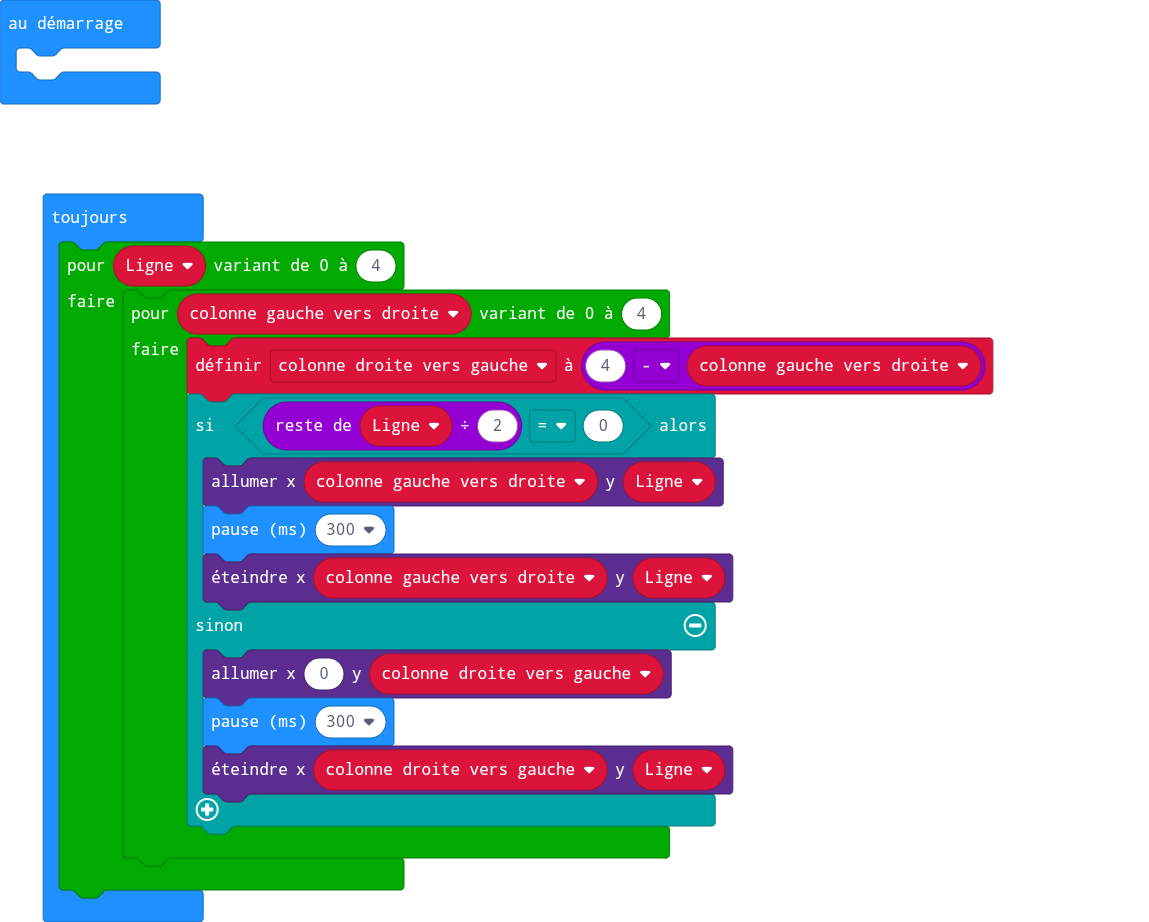
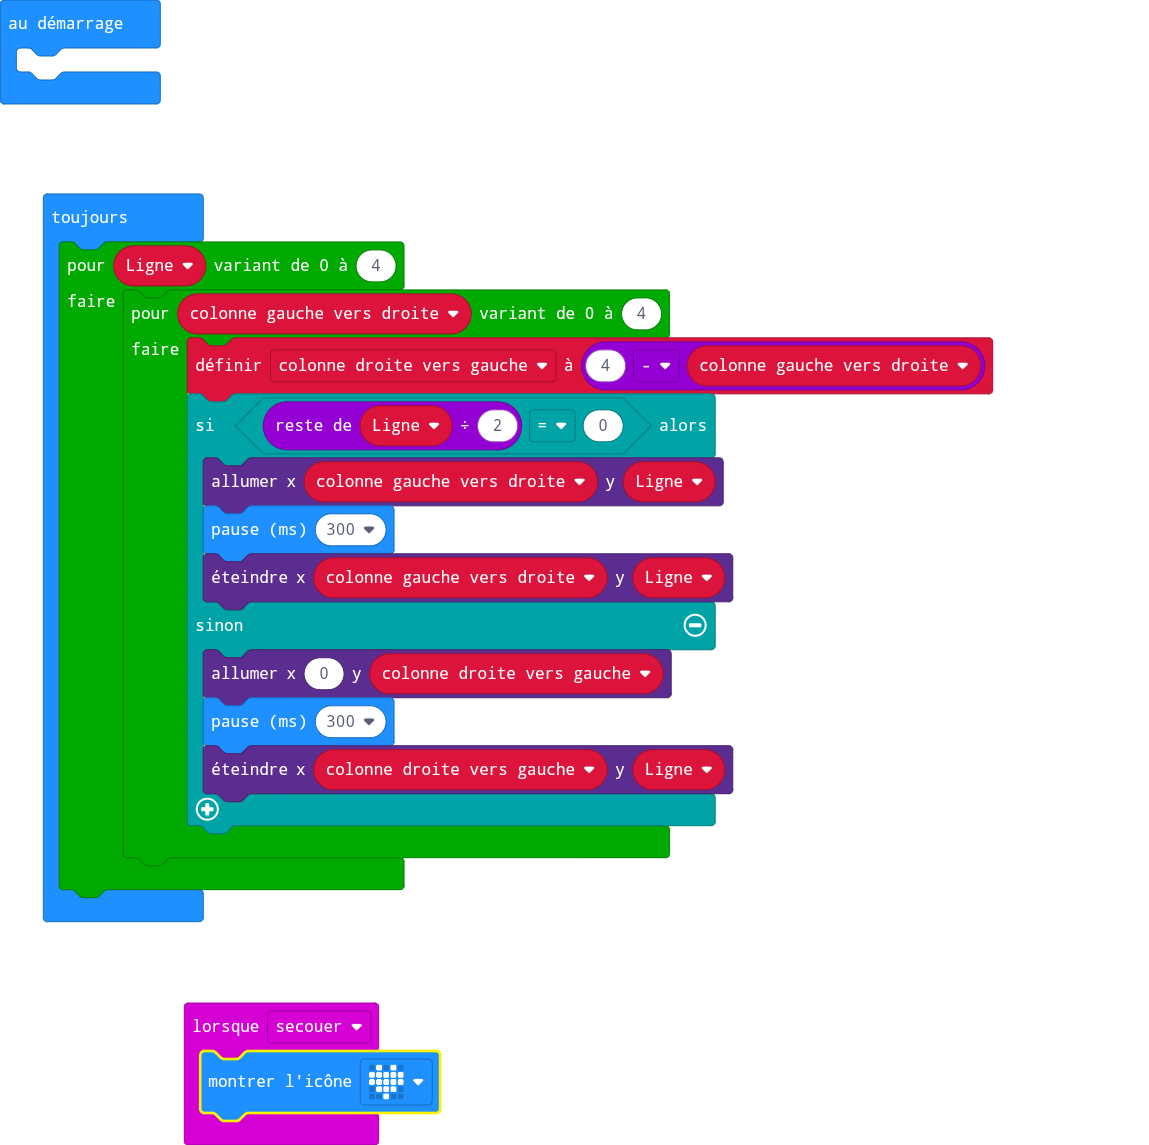
Mise à jour pxt.json, main.blocks, main.ts

diff --git a/main.ts b/main.ts
@@ -1,4 +1,7 @@
 let colonne_droite_vers_gauche = 0
+input.onGesture(Gesture.Shake, function () {
+    basic.showIcon(IconNames.Heart)
+})
 basic.forever(function () {
     for (let Ligne = 0; Ligne <= 4; Ligne++) {
         for (let colonne_gauche_vers_droite = 0; colonne_gauche_vers_droite <= 4; colonne_gauche_vers_droite++) {
